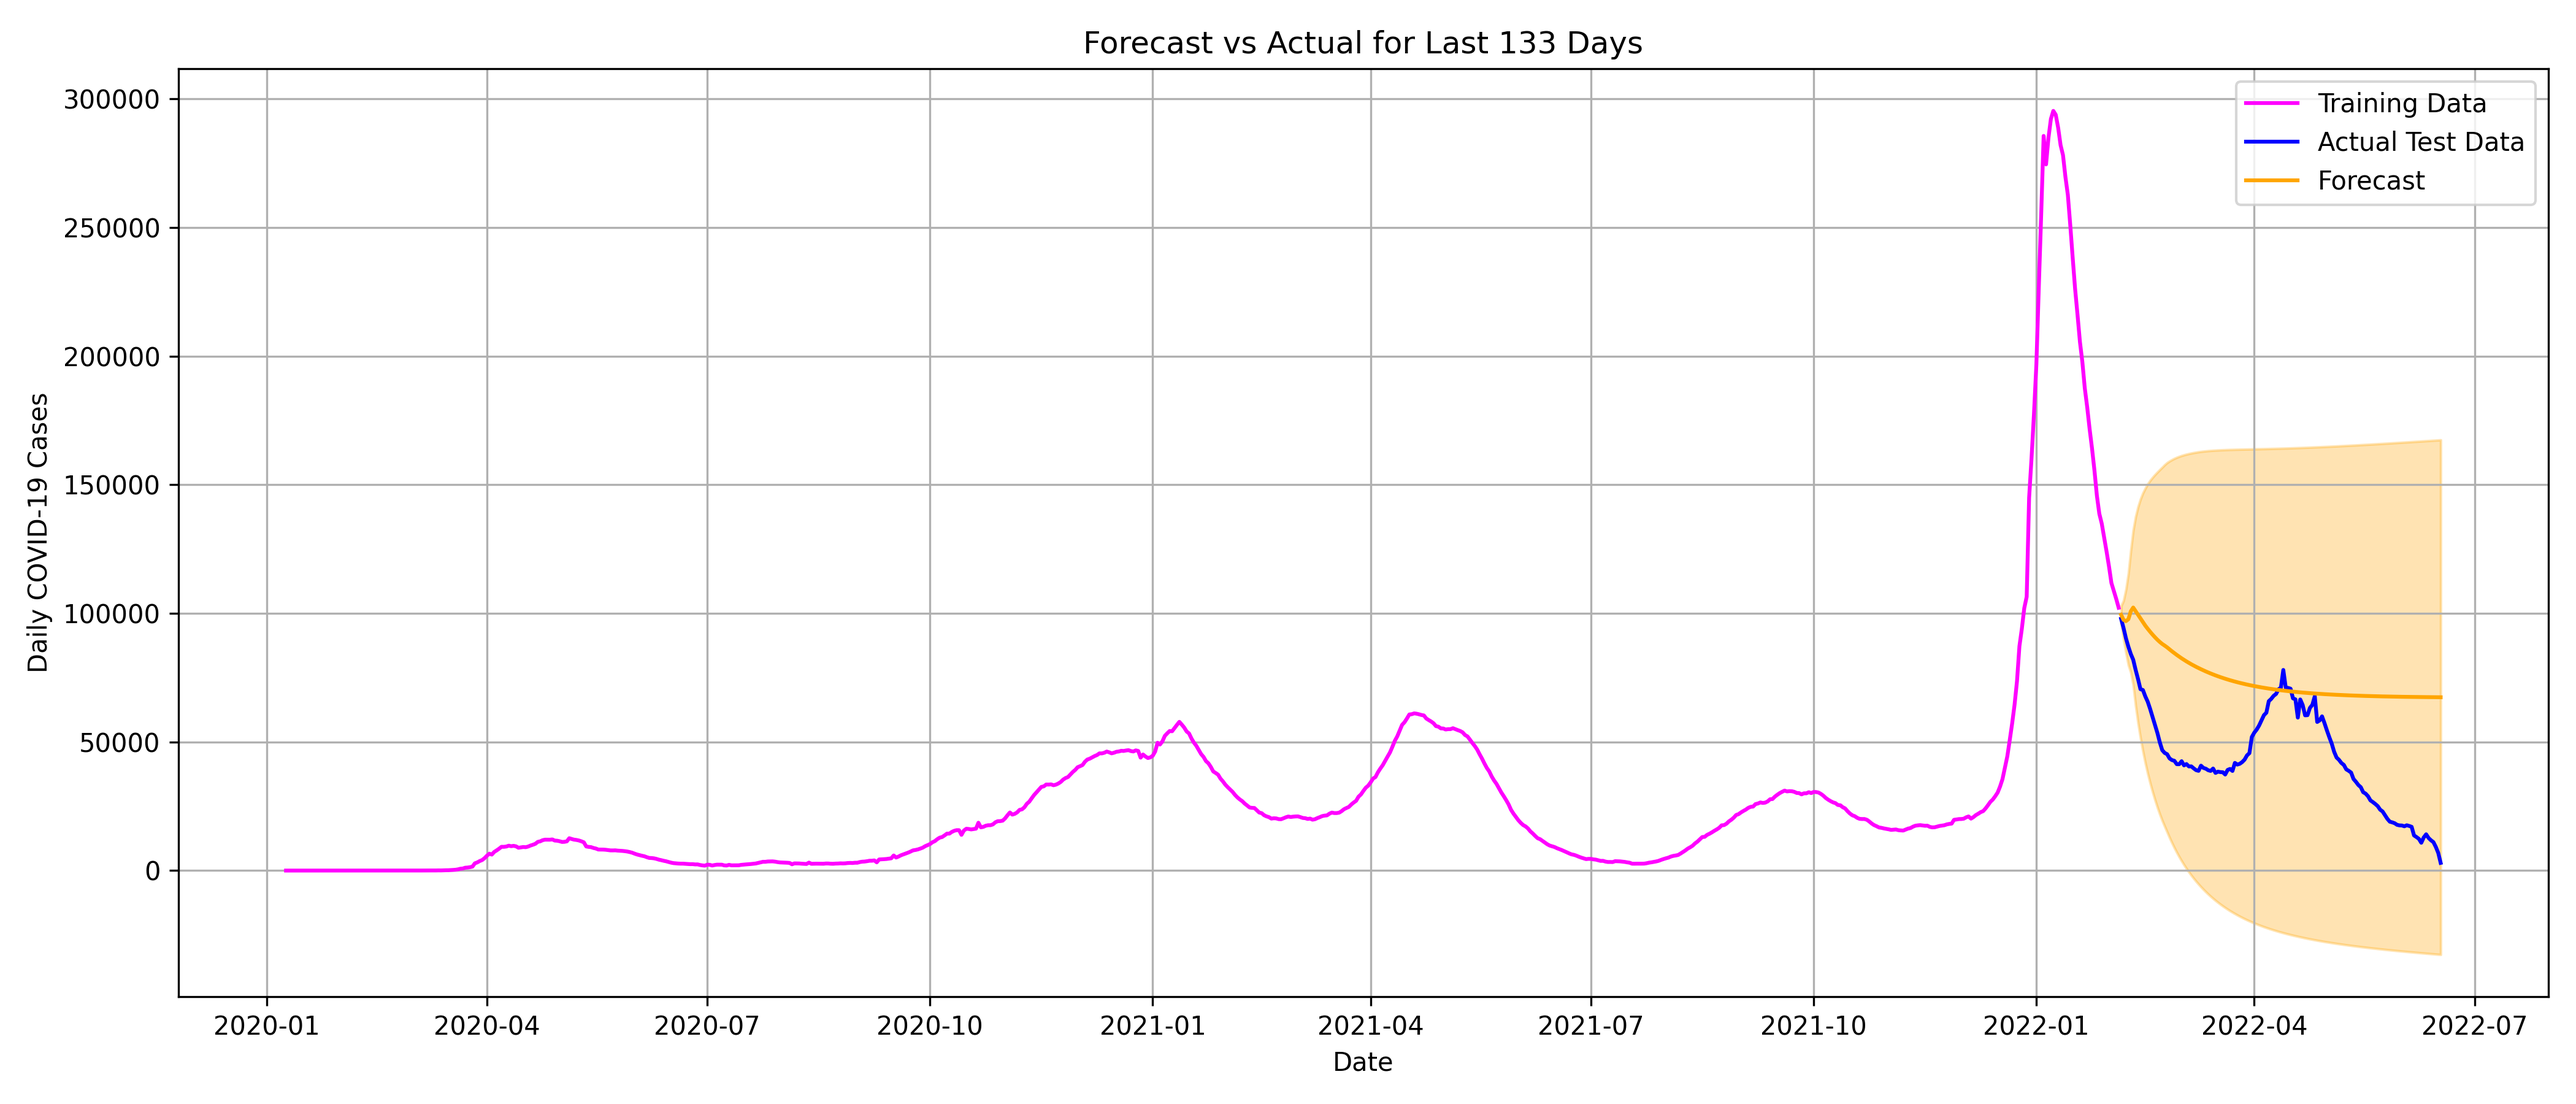
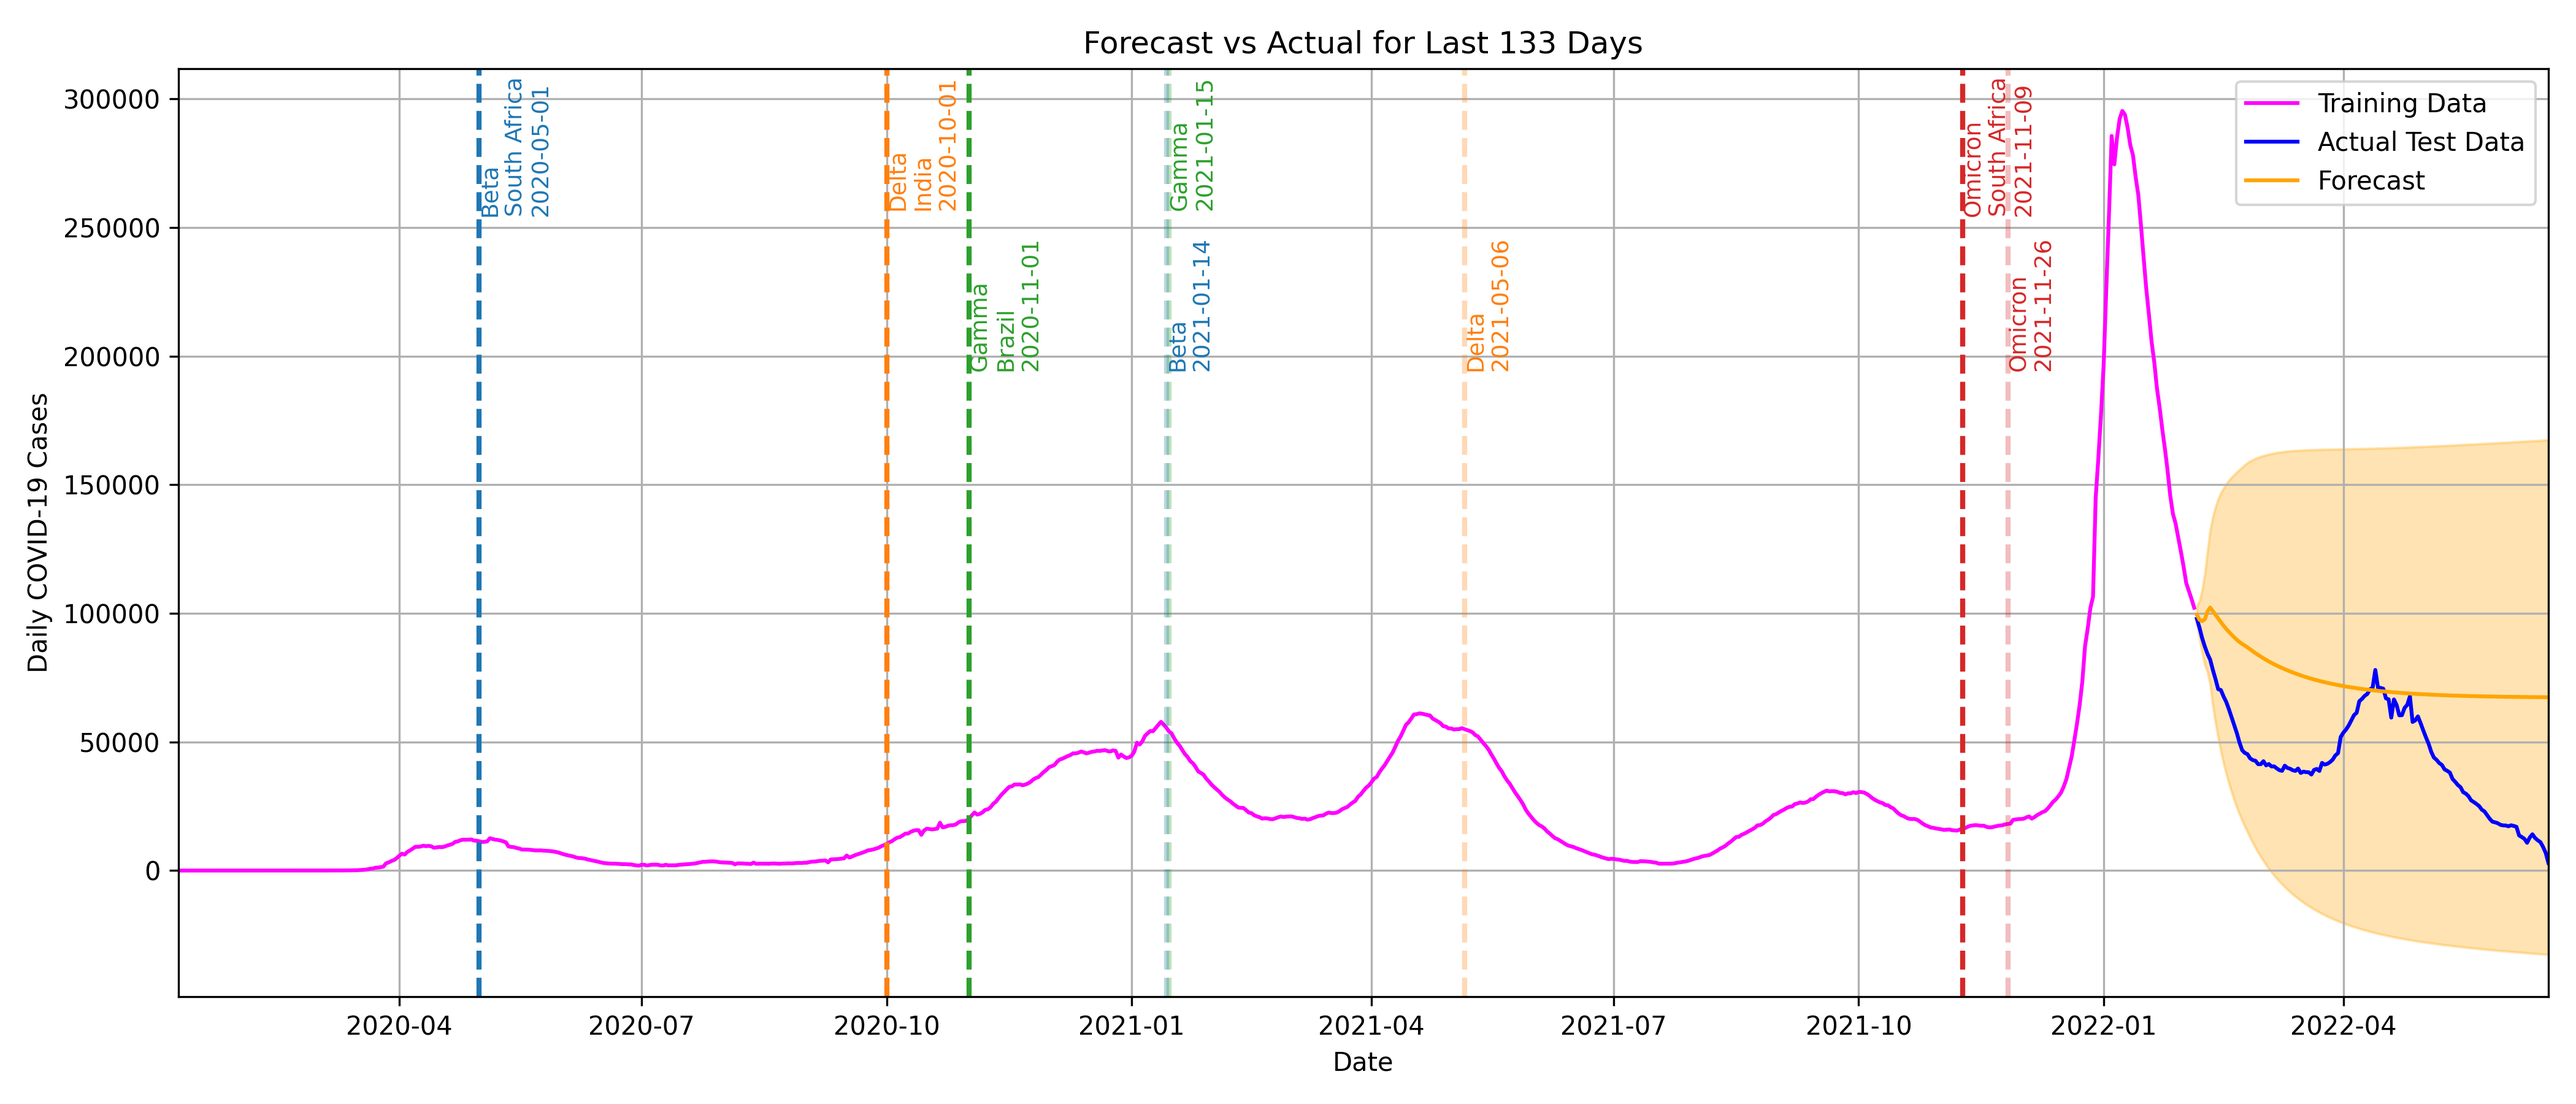
Updated forecast plots so that the variants are also included in the plot. Maybe not useful, but the code can be used for the classic cases and deaths plots.

diff --git a/scripts/weekly_deaths_2020-2022_sarimax.py b/scripts/weekly_deaths_2020-2022_sarimax.py
@@ -1,10 +1,10 @@
-import os.path
-
 import pandas as pd
 import pmdarima as pm
 import matplotlib.pyplot as plt
 from statsmodels.tsa.statespace.sarimax import SARIMAX
 import sys
+from wiki_table_info_extraction import data_extraction
+import matplotlib.colors as mcolors
 
 data_file = "../data/2020-2022/weekly-confirmed-covid-19-deaths_2020_2022_20250516.csv"
 title = "COVID-19 Deaths in Canada (2020–2022) forecast"
@@ -76,6 +76,42 @@ def main():
     plt.xlabel("Date")
     plt.ylabel(f"Daily COVID-19 {data_name}")
     plt.legend()
+
+    variants_df = data_extraction("../data/original_data/covid-variants-wikipedia-table.csv").sort_values(by='Earliest sample').reset_index(drop=True)
+    variants_df = variants_df[variants_df['WHO label'] != "Gamma"]
+
+    # Generate unique, consistent colors for each variant
+    cmap = plt.cm.get_cmap('tab10')
+    color_map = {variant: cmap(i % 10) for i, variant in enumerate(variants_df['WHO label'].unique())}
+    for i, row in variants_df.iterrows():
+        variant = row['WHO label']
+        early_date = row['Earliest sample']
+        voc_date = row['Designated VOC']
+        place = row['First outbreak']
+        color = color_map[variant]
+        light_color = mcolors.to_rgba(color, alpha=0.3)  # same color, lighter
+
+        # Vertical line for earliest sample
+        plt.axvline(early_date, color=color, linestyle='--', linewidth=2)
+        plt.text(
+            early_date,
+            plt.ylim()[1] * (0.99 - 0.15 * (i % 2)),  # place text near top
+            f"{variant}\n{place}\n{early_date.date()}",
+            rotation=90, verticalalignment='top',
+            color=color, fontsize=9
+        )
+
+        # Vertical line for VOC designation
+        plt.axvline(voc_date, color=light_color, linestyle='--', linewidth=2)
+        plt.text(
+            voc_date,
+            plt.ylim()[1] * (0.99 + 0.15 * (i % 2 - 1)),  # place text near top, +/- 15% for visibility
+            f"{variant}\n{voc_date.date()}",
+            rotation=90, verticalalignment='top',
+            color=color, fontsize=9
+        )
+    plt.xlim(y.index.min(), y.index.max())
+    plt.ylim(0)
     plt.tight_layout()
     plt.grid()
     try:

diff --git a/scripts/weekly_cases_2020-2022_sarimax.py b/scripts/weekly_cases_2020-2022_sarimax.py
@@ -3,6 +3,8 @@ import pmdarima as pm
 import matplotlib.pyplot as plt
 from statsmodels.tsa.statespace.sarimax import SARIMAX
 import sys
+from wiki_table_info_extraction import data_extraction
+import matplotlib.colors as mcolors
 
 data_file = "../data/2020-2022/weekly-confirmed-covid-19-cases_2020_2022_20250516.csv"
 title = "COVID-19 Cases in Canada (2020–2022) forecast"
@@ -73,6 +75,40 @@ def main():
     plt.xlabel("Date")
     plt.ylabel("Daily COVID-19 Cases")
     plt.legend()
+
+    variants_df = data_extraction("../data/original_data/covid-variants-wikipedia-table.csv").sort_values(by='Earliest sample').reset_index(drop=True)
+    variants_df = variants_df[variants_df['WHO label'] != "Alpha"]
+    # Generate unique, consistent colors for each variant
+    cmap = plt.cm.get_cmap('tab10')
+    color_map = {variant: cmap(i % 10) for i, variant in enumerate(variants_df['WHO label'].unique())}
+    for i, row in variants_df.iterrows():
+        variant = row['WHO label']
+        early_date = row['Earliest sample']
+        voc_date = row['Designated VOC']
+        place = row['First outbreak']
+        color = color_map[variant]
+        light_color = mcolors.to_rgba(color, alpha=0.3)  # same color, lighter
+
+        # Vertical line for earliest sample
+        plt.axvline(early_date, color=color, linestyle='--', linewidth=2)
+        plt.text(
+            early_date,
+            plt.ylim()[1] * (0.99 - 0.2 * (i % 2)),  # place text near top
+            f"{variant}\n{place}\n{early_date.date()}",
+            rotation=90, verticalalignment='top',
+            color=color, fontsize=9
+        )
+
+        # Vertical line for VOC designation
+        plt.axvline(voc_date, color=light_color, linestyle='--', linewidth=2)
+        plt.text(
+            voc_date,
+            plt.ylim()[1] * (0.99 + 0.2 * (i % 2 - 1)),  # place text near top, +/- 15% for visibility
+            f"{variant}\n{voc_date.date()}",
+            rotation=90, verticalalignment='top',
+            color=color, fontsize=9
+        )
+    plt.xlim(y.index.min(), y.index.max())
     plt.tight_layout()
     plt.grid()
     try:
